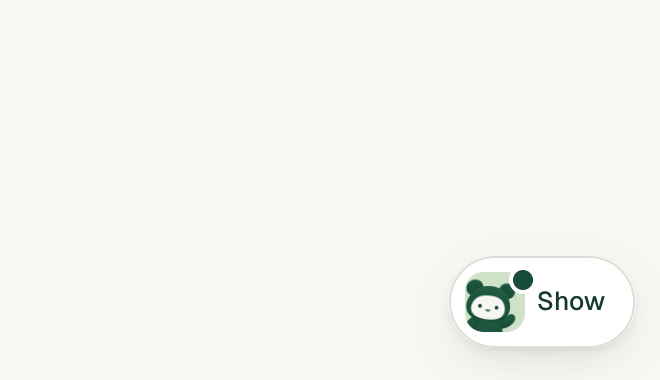
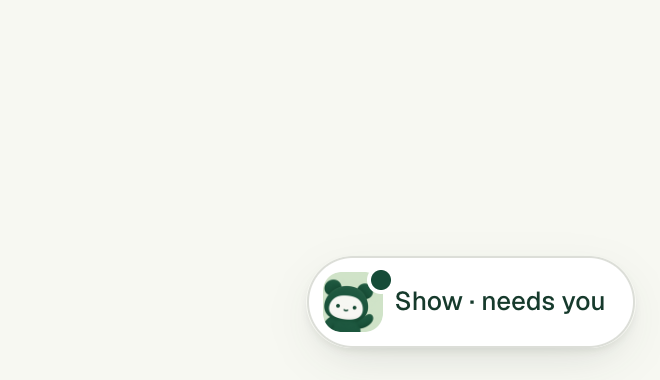
feat: say "needs you" on a hidden card that waits, not only with a dot
Two reviewers couldn't tell what the dot on a hidden card's logo meant. While the
hidden card waits for the reader, its label reads "Show · needs you" beside the
dot, in every language; otherwise it reads "Show".

Changed region(s): [[0.4848, 0.6658, 0.9394, 0.9263]]

diff --git a/extension/strings.js b/extension/strings.js
@@ -146,6 +146,7 @@
     'widget.hideTitle': 'Hide this card. Hiding doesn’t stop Autofill.',
     'widget.hide': 'Hide',
     'widget.show': 'Show',
+    'widget.showWaiting': 'Show · needs you',
     'widget.showTitle': 'Show SecondHand’s card',
     'widget.showWaitingTitle': 'Show SecondHand’s card: it needs you',
     'widget.needYouTitle': 'Go to the next question left, in the form.',
@@ -648,6 +649,7 @@
     'widget.hideTitle': 'Ocultar esta tarjeta. Ocultarla no detiene el autocompletado.',
     'widget.hide': 'Ocultar',
     'widget.show': 'Mostrar',
+    'widget.showWaiting': 'Mostrar · espera por usted',
     'widget.showTitle': 'Mostrar la tarjeta de SecondHand',
     'widget.showWaitingTitle': 'Mostrar la tarjeta de SecondHand: necesita su respuesta',
     'widget.needYouTitle': 'Ir a la siguiente pregunta que falta, en el formulario.',
@@ -1144,6 +1146,7 @@
     'widget.hideTitle': 'Ẩn thẻ này. Ẩn thẻ không dừng Tự điền.',
     'widget.hide': 'Ẩn',
     'widget.show': 'Hiện',
+    'widget.showWaiting': 'Hiện · cần bạn',
     'widget.showTitle': 'Hiện thẻ của SecondHand',
     'widget.showWaitingTitle': 'Hiện thẻ của SecondHand: nó cần bạn',
     'widget.needYouTitle': 'Đến câu hỏi còn lại tiếp theo trong biểu mẫu.',
@@ -1641,6 +1644,7 @@
     'widget.hideTitle': '隐藏此卡片。隐藏不会停止自动填写。',
     'widget.hide': '隐藏',
     'widget.show': '显示',
+    'widget.showWaiting': '显示 · 需要您处理',
     'widget.showTitle': '显示 SecondHand 卡片',
     'widget.showWaitingTitle': '显示 SecondHand 卡片：需要您处理',
     'widget.needYouTitle': '前往表格中下一个剩下的问题。',
@@ -2138,6 +2142,7 @@
     'widget.hideTitle': 'Masquer cette carte. La masquer n’arrête pas le remplissage.',
     'widget.hide': 'Masquer',
     'widget.show': 'Afficher',
+    'widget.showWaiting': 'Afficher · vous attend',
     'widget.showTitle': 'Afficher la carte de SecondHand',
     'widget.showWaitingTitle': 'Afficher la carte de SecondHand : elle a besoin de vous',
     'widget.needYouTitle': 'Aller à la prochaine question qui reste, dans le formulaire.',
@@ -2635,6 +2640,7 @@
     'widget.hideTitle': 'إخفاء هذه البطاقة. الإخفاء لا يوقف التعبئة التلقائية.',
     'widget.hide': 'إخفاء',
     'widget.show': 'إظهار',
+    'widget.showWaiting': 'إظهار · بحاجة إليك',
     'widget.showTitle': 'إظهار بطاقة SecondHand',
     'widget.showWaitingTitle': 'إظهار بطاقة SecondHand: تحتاج إليك',
     'widget.needYouTitle': 'انتقل إلى السؤال المتبقي التالي في النموذج.',

diff --git a/extension/panel.js b/extension/panel.js
@@ -231,6 +231,8 @@
       // A hidden card that waits for the reader marks its logo with a dot and says so in the logo's name.
       const needYou = ['done', 'waiting'].includes(result?.state) ? fieldKeys(result.needYou) : [];
       const waiting = pill && (needYou.length > 0 || ['waiting', 'error', 'locked', 'offline'].includes(result?.state) || Boolean(note));
+      // It says so in words too, not only with the dot.
+      $('pill-label').textContent = t(waiting ? 'widget.showWaiting' : 'widget.show');
       $('pill').classList.toggle('waiting', waiting);
       // One name each, said once: the round logo's from its tooltip; a hidden card's from a label that starts with the
       // word it shows, and no tooltip to repeat it.
